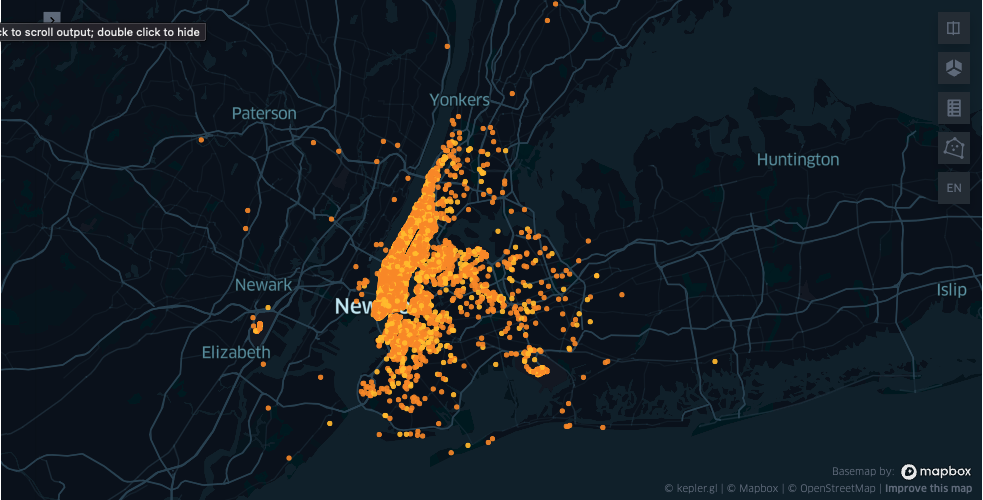
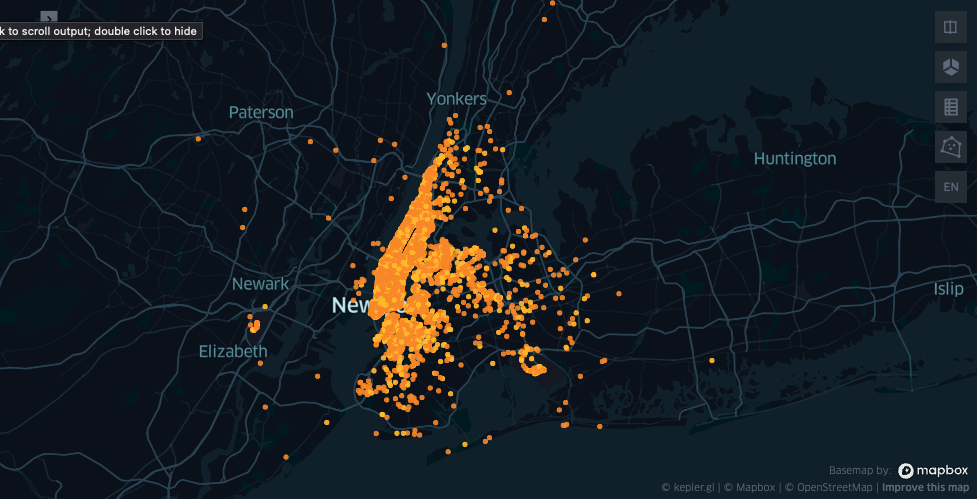
Added README.md

diff --git a/README.md b/README.md
@@ -1,0 +1,20 @@
+# Big-Mobility-Data-Analytics-for-Public-Health-Interview-Task
+
+Please find the notebook here [Notebook](https://github.com/anuragMaravi/Big-Mobility-Data-Analytics-for-Public-Health-Interview-Task/blob/main/Big%20Mobility%20Data%20Analytics%20for%20Public%20Health%20Data%20Code%20Interview%20Task.ipynb)
+
+## Data Source
+### [NYC Taxi Trips](https://github.com/uber-web/kepler.gl-data/blob/master/nyctrips/data.csv)
+This data set, downloaded from [NYC Taxi and Limousine Commission (TLC) website](https://www.nyc.gov/site/tlc/about/tlc-trip-record-data.page), includes yellow and green taxi trip records capturing pick-up and drop-off dates/times, pick-up and drop-off locations (latitude, longitude), trip distances, itemized fares, rate types, payment types, and driver-reported passenger counts.
+
+### [NYC restaurant locations](https://drive.google.com/file/d/11oMqNz_0aksP_vFXMQhA6a5rrWPshrew/view?usp=share_link)
+- The New York City Department of Health and Mental Hygiene (DOHMH) conducts unannounced restaurant inspections on an annual basis in order to check for compliance with policies on food handling. Data on these restaurant inspection results are publicly available at [NYC Open Data](https://data.cityofnewyork.us/Health/DOHMH-New-York-City-Restaurant-Inspection-Results/43nn-pn8j) and are updated daily. The specific data set for download above was accessed on 8/28/17 and contains records from 2014 - 2017. This older data was chosen in order to be more aligned with the taxi data, collected in 2015. This is important, since there is high turnover in restaurants over time (i.e., many go out of business).  
+- The data set contains information on restaurant name and location, type of food (CUISINE DESCRIPTION), inspection date, and details on violation codes, total scores, and associated grades. The data is longitudinal in nature, with multiple rows per restaurant representing inspections over time. A full data dictionary is available [here](https://data.cityofnewyork.us/Health/DOHMH-New-York-City-Restaurant-Inspection-Results/43nn-pn8j).
+- For the following questions, **we will focus on analyzing the locations of restaurants** (specified by the combination of their building, street, and zipcode features) **and not their inspection results**.
+
+## Notebook Preview
+### Linked Data
+![alt text](https://github.com/anuragMaravi/Big-Mobility-Data-Analytics-for-Public-Health-Interview-Task/blob/main/sample_images/linked_data_2.png)
+### Taxi Drop Location
+![alt text](https://github.com/anuragMaravi/Big-Mobility-Data-Analytics-for-Public-Health-Interview-Task/blob/main/sample_images/taxi_drop_map.png)
+### Restaurants Location
+![alt text](https://github.com/anuragMaravi/Big-Mobility-Data-Analytics-for-Public-Health-Interview-Task/blob/main/sample_images/restaurant_map.png)
